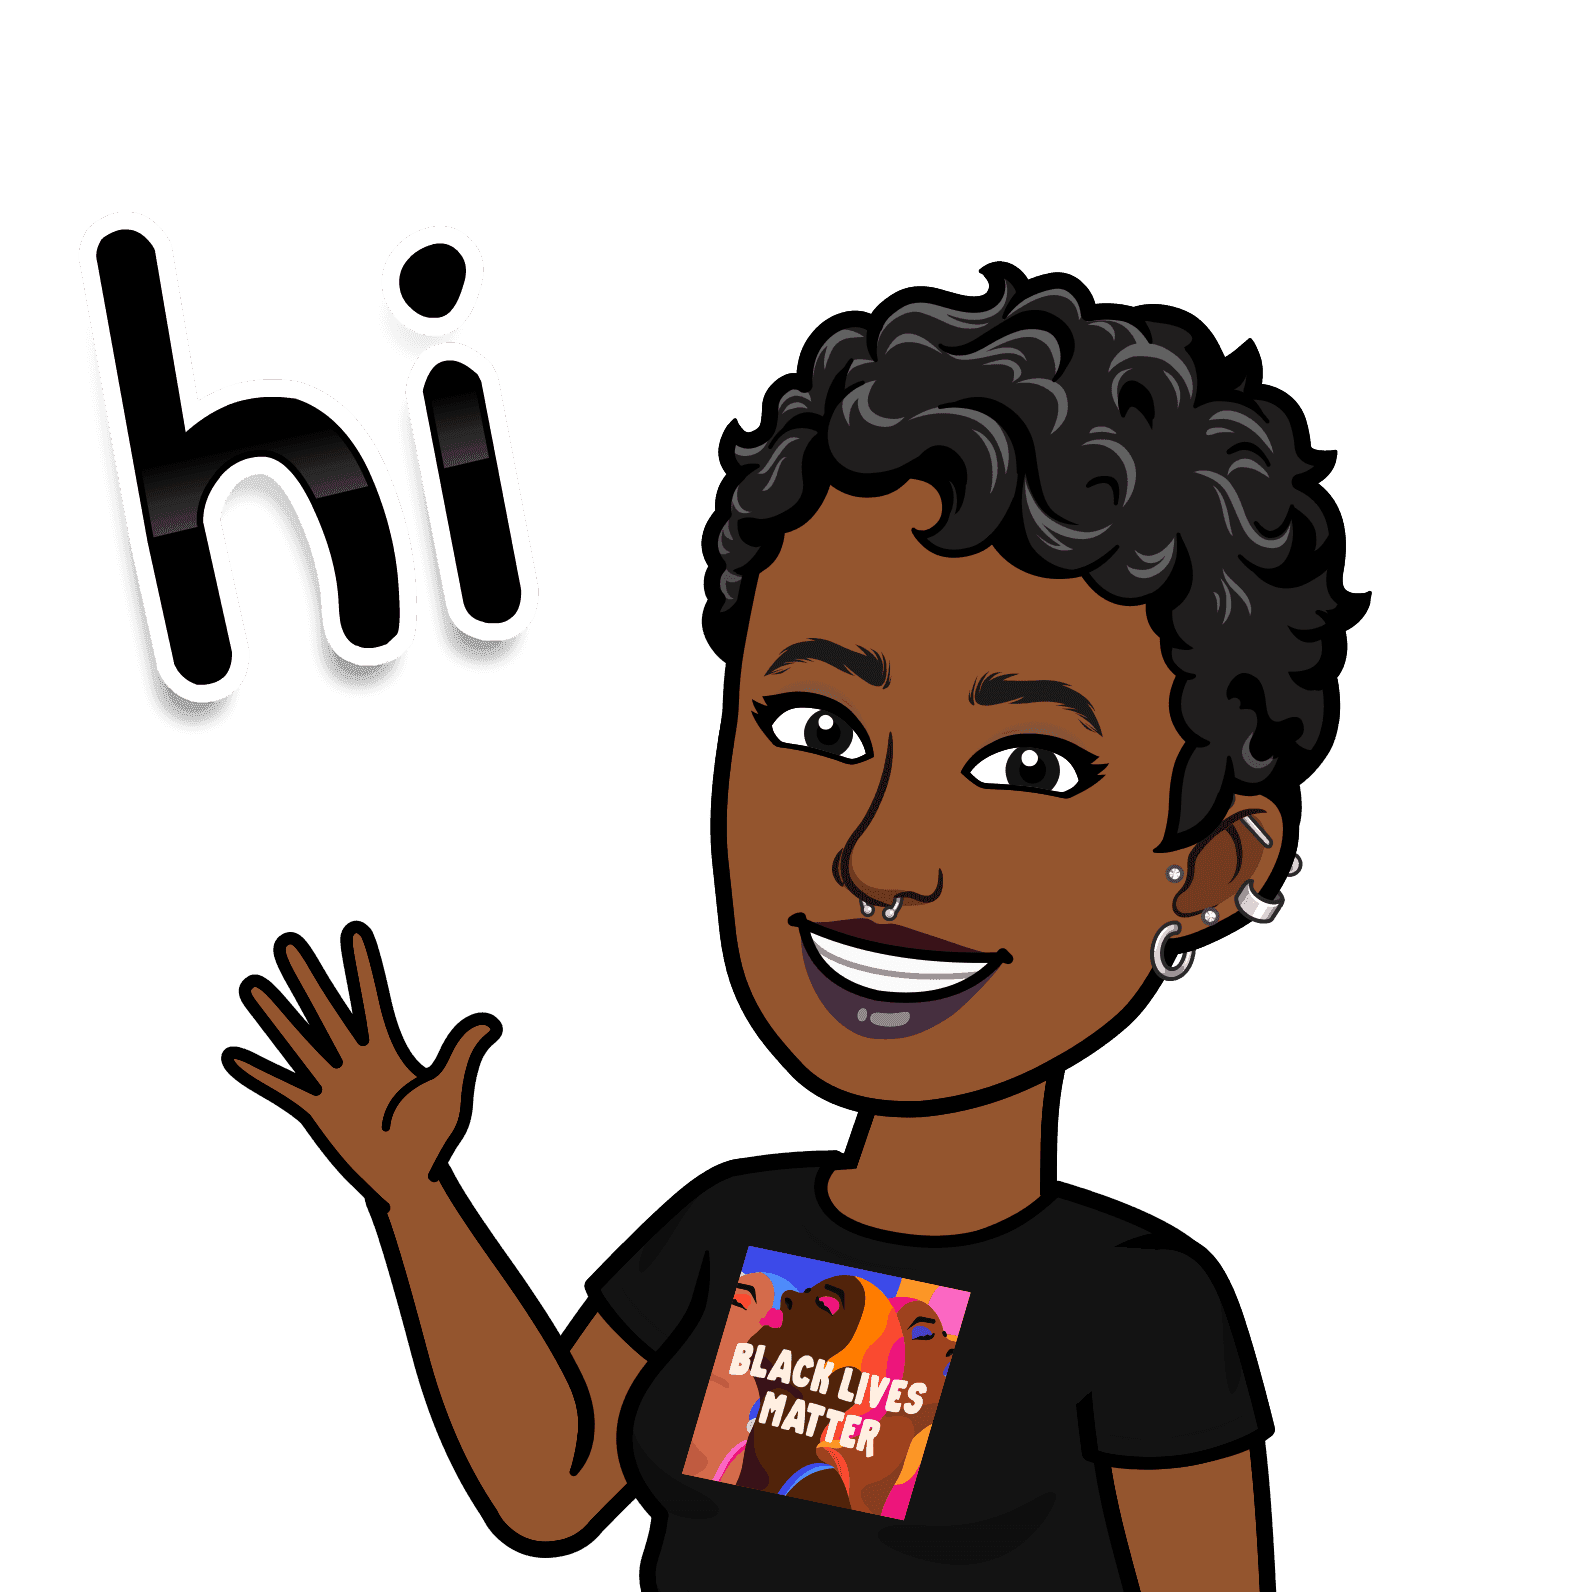
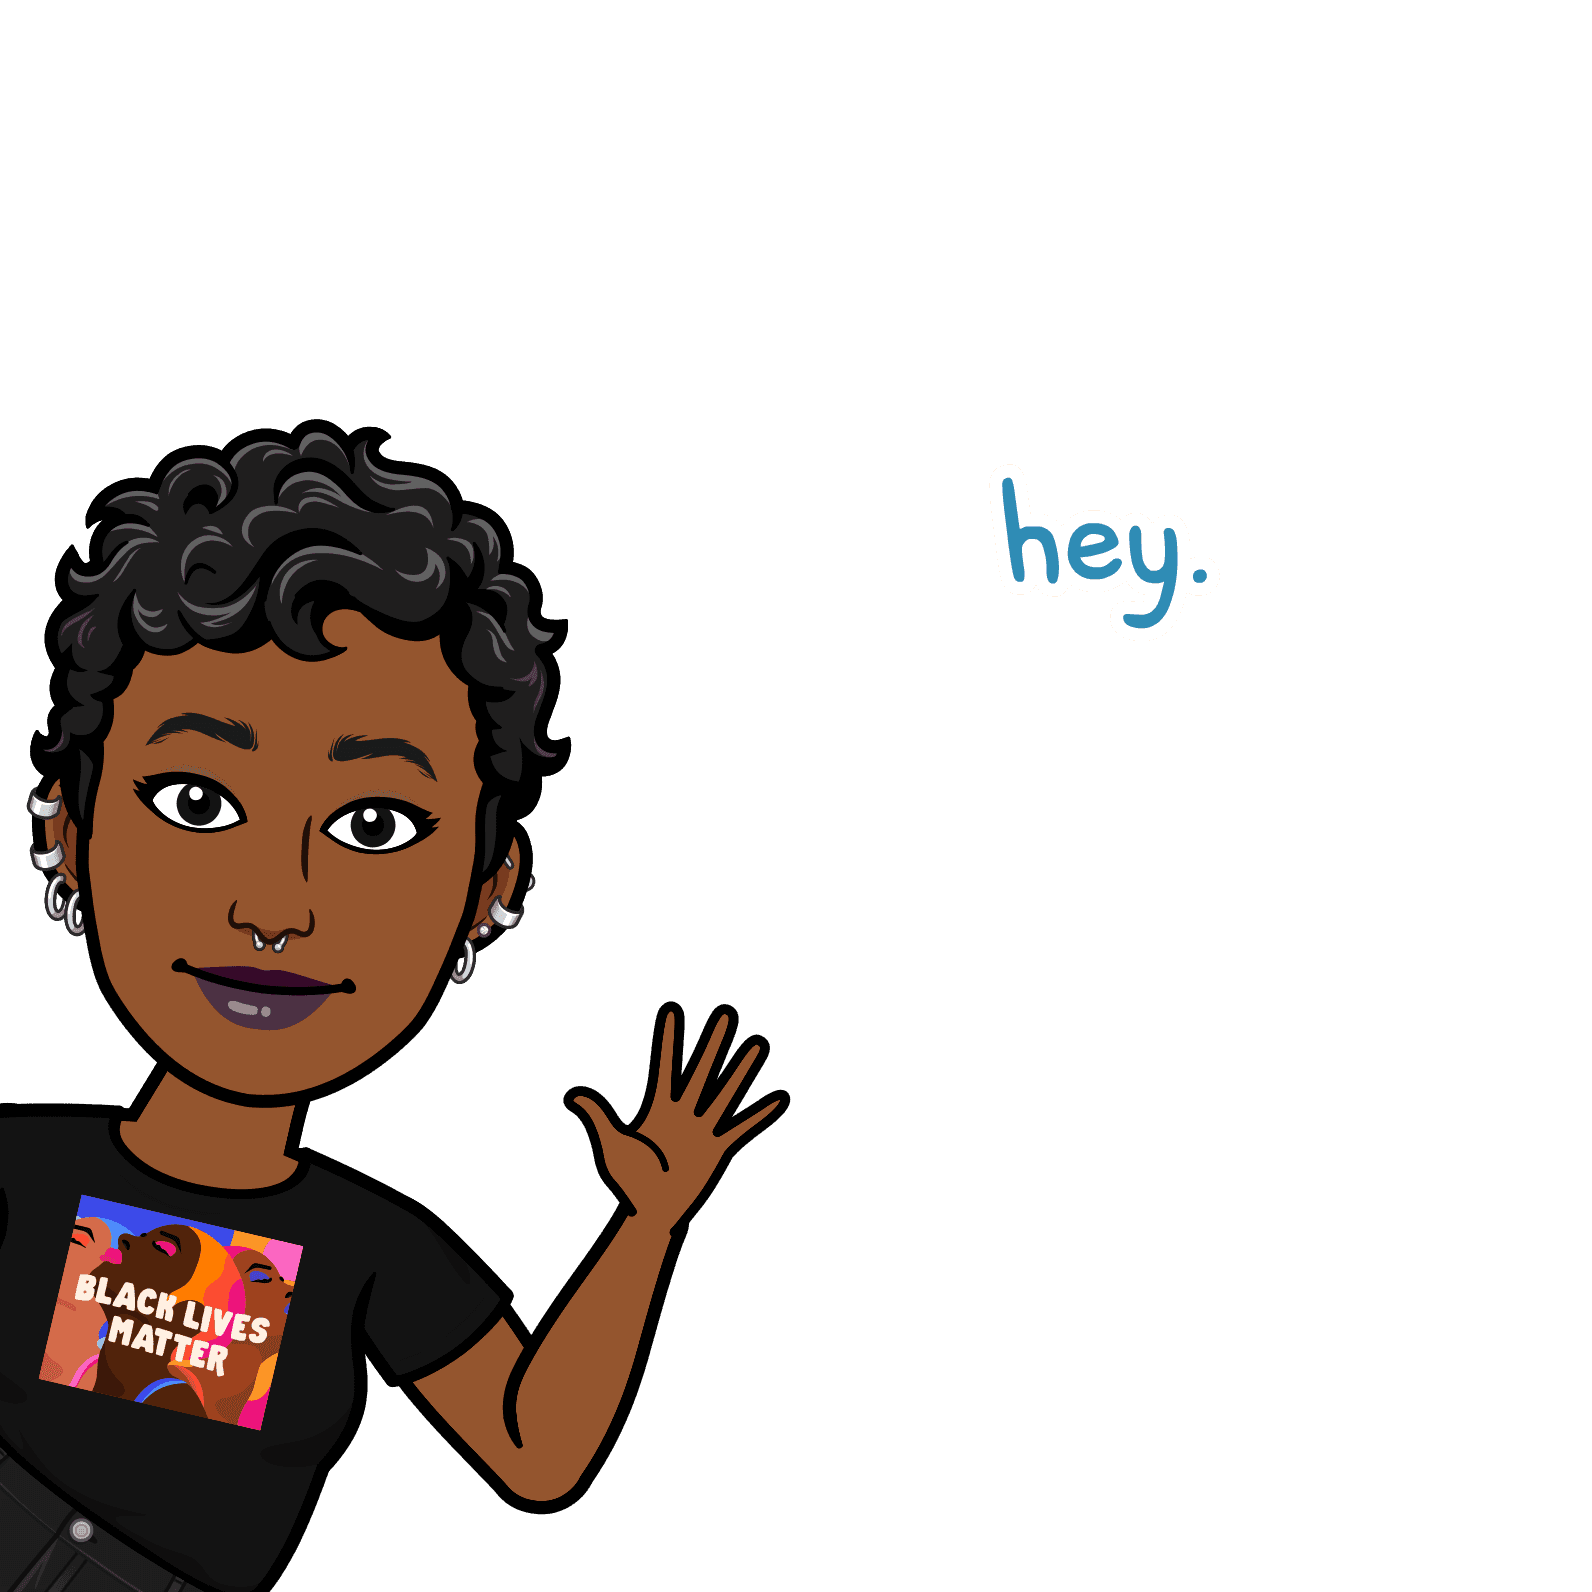
chore: remove outdated images and update AboutSection photo reference
Delete the old 'aniisa_hi.PNG' image and update the AboutSection component to use 'aniisa_hey.PNG' for improved visual consistency. This cleanup enhances the project's asset management.

diff --git a/src/components/AboutSection/AboutSection.tsx b/src/components/AboutSection/AboutSection.tsx
@@ -17,7 +17,7 @@ export default function AboutSection() {
         className={`${styles.photo} fade-rise`}
         style={{ "--animation-order": 1 } as CSSProperties}
       >
-        <img src="/img/aniisa_hi.PNG" alt="Aniisa Bihi" />
+        <img src="/img/aniisa_hey.png" alt="Aniisa Bihi" />
       </div>
 
       <div className={styles.inner}>